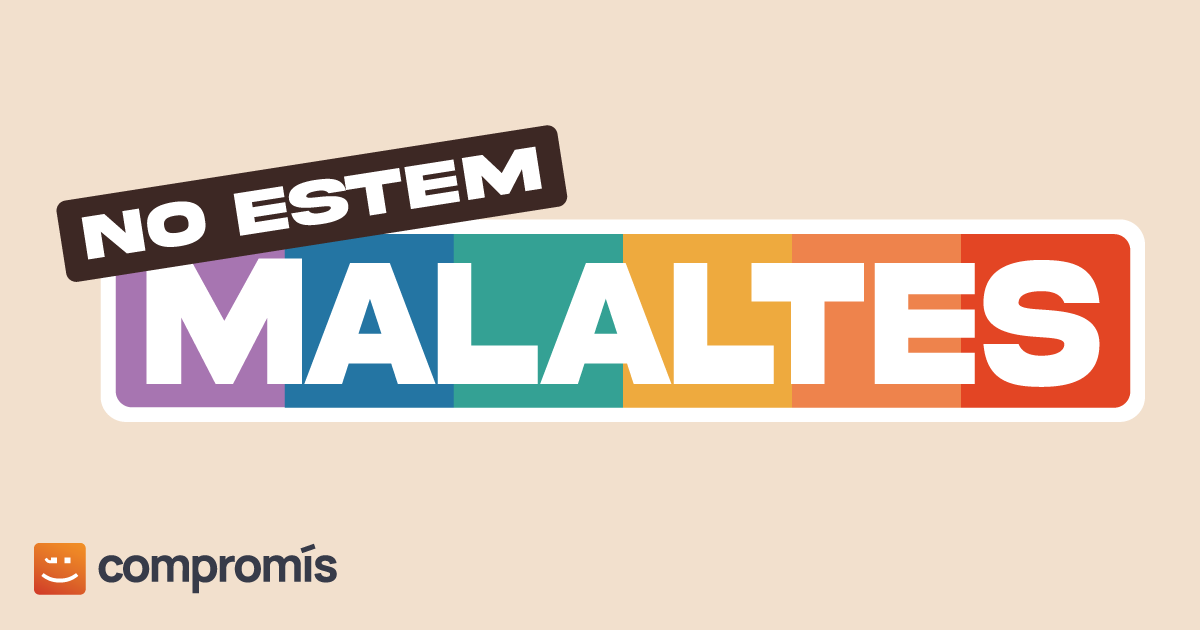
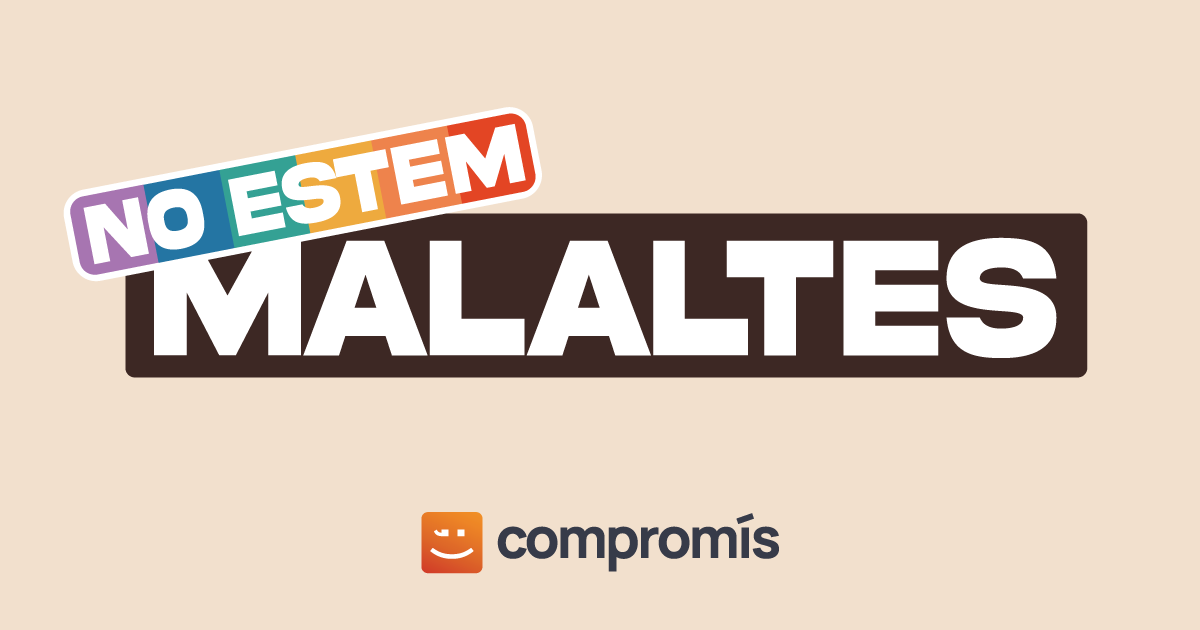
corrections

Changed region(s): [[0.0308, 0.1508, 0.9558, 0.6937], [0.3392, 0.8143, 0.6475, 0.9349], [0.0308, 0.8444, 0.2775, 0.9651]]

diff --git a/components/SiteTitleCas.vue b/components/SiteTitleCas.vue
@@ -1,69 +1,95 @@
 <template>
-<svg id="Amb_fons" xmlns="http://www.w3.org/2000/svg" viewBox="0 0 1036.27 274.07">
-  <rect class="cls-5" x="38.32" y="97.6" width="997.95" height="176.47" rx="23.03" ry="23.03"/>
+<svg id="Sense_fons" xmlns="http://www.w3.org/2000/svg" viewBox="0 0 1584.68 417.28">
+  <rect class="cls-6" x="75.19" y="182.84" width="1509.49" height="234.44" rx="14.13" ry="14.13"/>
   <g>
-    <path class="cls-8" d="M66.3,110.07h146.85v151.24H66.3c-8.18,0-14.82-6.64-14.82-14.82v-121.61c0-8.18,6.64-14.82,14.82-14.82Z"/>
-    <rect class="cls-7" x="213.15" y="110.44" width="161.66" height="151.24"/>
-    <rect class="cls-2" x="374.82" y="110.44" width="161.66" height="151.24"/>
-    <rect class="cls-4" x="536.48" y="110.44" width="161.66" height="151.24"/>
-    <rect class="cls-1" x="698.15" y="110.44" width="161.66" height="151.24"/>
-    <path class="cls-6" d="M859.81,110.44h146.85c8.18,0,14.82,6.64,14.82,14.82v121.61c0,8.18-6.64,14.82-14.82,14.82h-146.85V110.44h0Z"/>
+    <path class="cls-4" d="M128.55,216.16h140.17v43.43h-93.48v21.71h93.48v39.26h-93.48v21.71h93.48v43.56h-140.17v-169.68Z"/>
+    <path class="cls-4" d="M410.31,215.9h46.78v169.68h-52.58l-64.34-103.65v103.65h-46.69v-169.68h64.25l52.58,89.89v-89.89Z"/>
+    <path class="cls-4" d="M484.26,216.16h146.05v53.78h-99.36v20.71h87.69v49.62h-87.69v45.58h-46.69v-169.68Z"/>
+    <path class="cls-4" d="M643.66,216.16h140.17v43.43h-93.48v21.71h93.48v39.26h-93.48v21.71h93.48v43.56h-140.17v-169.68Z"/>
+    <path class="cls-4" d="M924,216.03c24.68-.38,45.62,29.04,45.27,64.14,0,12.75-2.41,24.37-7.22,34.72-4.72,10.23-11.05,18.05-18.89,23.23l26.11,47.6h-49.72l-22.54-41.41h-41.7v41.41h-46.69v-169.68h115.4ZM855.29,265.65v28.91h56.94c2.85,0,5.26-1.39,7.22-4.17,2.05-2.9,3.03-6.31,3.03-10.23,0-8.08-4.54-14.52-10.25-14.52h-56.94Z"/>
+    <path class="cls-4" d="M983.69,215.9h58.46l46.69,84.84,46.78-84.84h58.37v169.68h-46.69v-90.52l-46.78,90.52h-23.35l-46.78-90.52v90.52h-46.69v-169.68Z"/>
+    <path class="cls-4" d="M1261.79,216.16h55.52l64.25,169.68h-52.58l-9.45-29.04h-59.97l-9.45,29.04h-52.58l64.25-169.68ZM1273.11,315.39h32.88l-16.4-50.12-16.49,50.12Z"/>
+    <path class="cls-4" d="M1459.7,281.55c33.42,2.4,80.38,5.68,80.29,48.23,0,48.48-39.21,59.97-81.27,59.97-41.97-.13-76.81-7.32-81.27-59.97h48.92c5.35,13.13,17.73,16.54,32.35,16.54s32.35-3.41,32.35-16.54c0-7.45-14.53-8.58-33.33-9.85-33.42-2.4-80.38-5.68-80.29-48.1,0-48.48,39.21-60.1,81.27-60.1,41.97.38,76.81,7.07,81.27,60.1h-48.92c-5.35-13.38-17.73-16.54-32.35-16.54s-32.35,3.03-32.35,16.54c0,7.45,14.52,8.46,33.33,9.72Z"/>
   </g>
   <g>
-    <path class="cls-5" d="M78.43,131.88h90.21v27.95h-60.16v13.97h60.16v25.27h-60.16v13.97h60.16v28.03h-90.21v-109.2Z"/>
-    <path class="cls-5" d="M259.76,131.72h30.11v109.2h-33.83l-41.41-66.71v66.71h-30.05v-109.2h41.35l33.83,57.85v-57.85Z"/>
-    <path class="cls-5" d="M307.35,131.88h93.99v34.61h-63.94v13.32h56.43v31.93h-56.43v29.33h-30.05v-109.2Z"/>
-    <path class="cls-5" d="M409.94,131.88h90.21v27.95h-60.16v13.97h60.16v25.27h-60.16v13.97h60.16v28.03h-90.21v-109.2Z"/>
-    <path class="cls-5" d="M590.35,131.8c15.89-.24,29.36,18.69,29.13,41.27,0,8.21-1.55,15.68-4.65,22.34-3.04,6.58-7.11,11.62-12.16,14.95l16.8,30.63h-32l-14.51-26.65h-26.84v26.65h-30.05v-109.2h74.27ZM546.13,163.73v18.61h36.65c1.84,0,3.38-.89,4.65-2.68,1.32-1.87,1.95-4.06,1.95-6.58,0-5.2-2.92-9.34-6.59-9.34h-36.65Z"/>
-    <path class="cls-5" d="M628.76,131.72h37.62l30.05,54.6,30.11-54.6h37.56v109.2h-30.05v-58.26l-30.11,58.26h-15.03l-30.11-58.26v58.26h-30.05v-109.2Z"/>
-    <path class="cls-5" d="M807.74,131.88h35.73l41.35,109.2h-33.83l-6.08-18.69h-38.59l-6.08,18.69h-33.83l41.35-109.2ZM815.02,195.74h21.16l-10.55-32.26-10.61,32.26Z"/>
-    <path class="cls-5" d="M935.1,173.97c21.51,1.54,51.73,3.66,51.67,31.04,0,31.2-25.23,38.59-52.3,38.59-27.01-.08-49.43-4.71-52.3-38.59h31.48c3.44,8.45,11.41,10.64,20.82,10.64s20.82-2.19,20.82-10.64c0-4.79-9.35-5.52-21.45-6.34-21.51-1.54-51.73-3.66-51.67-30.96,0-31.2,25.23-38.67,52.3-38.67,27.01.24,49.43,4.55,52.3,38.67h-31.48c-3.44-8.61-11.41-10.64-20.82-10.64s-20.82,1.95-20.82,10.64c0,4.79,9.35,5.44,21.45,6.26Z"/>
-  </g>
-  <rect class="cls-3" x=".85" y="40.13" width="543.62" height="71.5" rx="9.89" ry="9.89" transform="translate(-8.45 43.01) rotate(-8.88)"/>
-  <g>
-    <path class="cls-5" d="M57.28,90.39l14.22-2.22,5.69,36.39-15.98,2.5-23.02-19.18,3.47,22.23-14.19,2.22-5.69-36.39,19.52-3.05,18.99,16.78-3.01-19.28Z"/>
-    <path class="cls-5" d="M128.86,96.49l.41,2.65c2.2,13.75-8.38,19.48-22.05,21.64-13.71,2.11-25.54-.12-27.63-13.88l-.41-2.65c-2.21-13.77,8.39-19.48,22.08-21.65,13.7-2.14,25.46.13,27.61,13.88ZM114.81,99.57c-.85-5.94-5.94-6.26-11.75-5.43-5.81.99-10.57,2.84-9.56,8.76l.14.89c.85,5.97,5.95,6.28,11.78,5.45,5.78-.99,10.54-2.84,9.53-8.78l-.14-.89Z"/>
-    <path class="cls-5" d="M154.4,75.27l42.59-6.66,1.46,9.31-28.41,4.44.73,4.66,28.41-4.44,1.32,8.42-28.4,4.44.73,4.66,28.4-4.44,1.46,9.34-42.59,6.66-5.69-36.39Z"/>
-    <path class="cls-5" d="M228,78.14c10.24-1.07,24.62-2.6,26.01,6.53,1.62,10.4-9.9,14.72-22.69,16.72-12.76,1.97-23.59,2.08-26.71-9l14.87-2.32c2.07,2.56,5.94,2.71,10.38,2.01,4.41-.69,9.71-2.27,9.27-5.08-.25-1.6-4.7-1.15-10.46-.53-10.23,1.07-24.61,2.6-26.01-6.5-1.62-10.4,9.9-14.75,22.68-16.75,12.77-1.91,23.58-2.13,26.71,9.03l-14.87,2.32c-2.07-2.62-5.94-2.7-10.38-2.01-4.41.69-9.73,2.19-9.28,5.08.25,1.6,4.7,1.12,10.45.5Z"/>
-    <path class="cls-5" d="M273.2,93.99l-3.89-24.86-16.87,2.64-1.8-11.53,47.93-7.49,1.8,11.53-16.87,2.64,3.89,24.86-14.19,2.22Z"/>
-    <path class="cls-5" d="M308.68,51.16l16.87-2.64,25.21,33.34-15.98,2.5-3.84-5.78-18.22,2.85-1.9,6.68-15.98,2.5,13.84-39.44ZM315.44,71.91l9.99-1.56-6.66-9.97-3.33,11.53Z"/>
-    <path class="cls-5" d="M346.15,45.25l17.76-2.78,17.03,15.98,11.37-20.42,17.74-2.77,5.69,36.39-14.19,2.22-3.03-19.42-11.18,21.64-7.09,1.11-17.25-17.19,3.03,19.42-14.19,2.22-5.69-36.39Z"/>
-    <path class="cls-5" d="M467.42,43.58l.41,2.65c2.2,13.75-8.38,19.48-22.05,21.64-13.71,2.11-25.54-.12-27.63-13.88l-.41-2.65c-2.21-13.77,8.39-19.48,22.08-21.65,13.7-2.14,25.46.13,27.61,13.88ZM453.37,46.66c-.85-5.94-5.94-6.26-11.75-5.43-5.81.99-10.57,2.84-9.56,8.76l.14.89c.85,5.97,5.95,6.28,11.78,5.45,5.78-.99,10.54-2.84,9.53-8.78l-.14-.89Z"/>
-    <path class="cls-5" d="M494.99,36.41c10.23-1.07,24.62-2.6,26.01,6.53,1.63,10.4-9.9,14.72-22.69,16.72-12.76,1.97-23.59,2.08-26.71-9l14.87-2.32c2.07,2.56,5.94,2.71,10.38,2.01,4.41-.69,9.71-2.27,9.27-5.08-.25-1.6-4.7-1.15-10.46-.53-10.23,1.07-24.62,2.6-26.01-6.5-1.63-10.4,9.9-14.75,22.68-16.75,12.77-1.91,23.58-2.13,26.71,9.03l-14.87,2.32c-2.07-2.62-5.94-2.7-10.38-2.01-4.41.69-9.73,2.19-9.28,5.08.25,1.6,4.7,1.12,10.45.5Z"/>
+    <rect class="cls-4" x="-1.74" y="73.21" width="847.59" height="132.39" rx="38.14" ry="38.14" transform="translate(-18.86 83.25) rotate(-11.02)"/>
+    <g>
+      <path class="cls-15" d="M39.03,148.56h112.87v113.47H39.03c-13.55,0-24.55-11-24.55-24.55v-64.36c0-13.55,11-24.55,24.55-24.55Z" transform="translate(-37.71 19.69) rotate(-11.02)"/>
+      <rect class="cls-9" x="149.42" y="122.56" width="137.42" height="113.47" transform="translate(-30.25 45) rotate(-11.02)"/>
+      <rect class="cls-5" x="284.31" y="96.29" width="137.42" height="113.47" transform="translate(-22.74 70.3) rotate(-11.02)"/>
+      <rect class="cls-7" x="419.19" y="70.02" width="137.42" height="113.47" transform="translate(-15.23 95.6) rotate(-11.02)"/>
+      <rect class="cls-2" x="554.08" y="43.75" width="137.42" height="113.47" transform="translate(-7.72 120.9) rotate(-11.02)"/>
+      <path class="cls-8" d="M688.97,17.48h112.87c13.55,0,24.55,11,24.55,24.55v64.36c0,13.55-11,24.55-24.55,24.55h-112.87V17.48h0Z" transform="translate(-.22 146.2) rotate(-11.02)"/>
+    </g>
+    <g>
+      <path class="cls-4" d="M83.17,164.04l22.17-4.32,15.66,80.42-24.91,4.85-40.05-43.19,9.57,49.12-22.12,4.31-15.66-80.42,30.44-5.93,33.21,37.75-8.3-42.6Z"/>
+      <path class="cls-4" d="M197.93,180.38l1.14,5.86c6,30.38-9.76,42.58-31.07,46.79-21.38,4.1-40.57-1.29-46.4-31.7l-1.14-5.86c-6.02-30.44,9.76-42.58,31.12-46.8,21.36-4.16,40.44,1.32,46.36,31.71ZM176.18,186.6c-2.43-13.13-10.58-14.03-19.65-12.45-9.04,1.95-16.26,5.84-13.58,18.92l.38,1.97c2.44,13.19,10.59,14.09,19.7,12.5,9-1.94,16.22-5.83,13.53-18.97l-.38-1.97Z"/>
+      <path class="cls-4" d="M234.62,134.67l66.41-12.93,4.01,20.58-44.29,8.62,2,10.29,44.29-8.62,3.62,18.61-44.29,8.62,2,10.29,44.29-8.62,4.02,20.64-66.41,12.93-15.66-80.42Z"/>
+      <path class="cls-4" d="M352,143.98c16.06-1.95,38.61-4.72,42.49,15.45,4.47,22.98-13.04,32.04-32.97,35.92-19.9,3.81-37.07,3.62-44.04-20.92l23.18-4.51c3.75,5.73,9.93,6.2,16.85,4.85,6.88-1.34,15.01-4.6,13.8-10.82-.69-3.53-7.67-2.73-16.7-1.59-16.05,1.95-38.61,4.72-42.48-15.39-4.47-22.98,13.03-32.1,32.96-35.98,19.92-3.69,37.05-3.74,44.05,20.98l-23.18,4.51c-3.77-5.85-9.93-6.2-16.85-4.85-6.88,1.34-15.05,4.42-13.8,10.82.69,3.53,7.66,2.67,16.69,1.53Z"/>
+      <path class="cls-4" d="M426.66,180.74l-10.7-54.93-26.3,5.12-4.96-25.49,74.73-14.55,4.96,25.49-26.3,5.12,10.7,54.93-22.12,4.31Z"/>
+      <path class="cls-4" d="M475.18,87.82l26.3-5.12,46.1,74.49-24.91,4.85-7.16-12.89-28.42,5.53-1.8,14.63-24.91,4.85,14.78-86.35ZM489.71,133.8l15.58-3.03-12.39-22.24-3.19,25.27Z"/>
+      <path class="cls-4" d="M533.61,76.32l27.7-5.39,29.95,35.9,14.34-44.52,27.65-5.39,15.66,80.42-22.12,4.31-8.35-42.9-13.81,47.22-11.06,2.15-30.52-38.58,8.35,42.9-22.12,4.31-15.66-80.42Z"/>
+      <path class="cls-4" d="M725.85,77.57l1.14,5.86c6,30.38-9.76,42.58-31.07,46.79-21.38,4.1-40.57-1.29-46.4-31.7l-1.14-5.87c-6.02-30.44,9.76-42.58,31.11-46.8,21.36-4.16,40.44,1.32,46.36,31.71ZM704.1,83.79c-2.43-13.13-10.58-14.02-19.65-12.45-9.04,1.95-16.26,5.84-13.58,18.92l.38,1.97c2.44,13.19,10.59,14.09,19.7,12.5,9-1.94,16.22-5.83,13.53-18.97l-.38-1.97Z"/>
+      <path class="cls-4" d="M768.32,62.9c16.05-1.95,38.61-4.72,42.49,15.45,4.47,22.98-13.04,32.04-32.97,35.92-19.9,3.81-37.07,3.62-44.04-20.92l23.18-4.51c3.75,5.73,9.93,6.2,16.85,4.85,6.88-1.34,15.01-4.6,13.8-10.82-.69-3.53-7.67-2.73-16.7-1.59-16.05,1.95-38.61,4.72-42.48-15.39-4.47-22.98,13.03-32.1,32.96-35.98,19.92-3.69,37.05-3.74,44.05,20.98l-23.18,4.51c-3.77-5.85-9.93-6.2-16.85-4.85-6.88,1.34-15.05,4.42-13.8,10.82.69,3.53,7.66,2.67,16.69,1.53Z"/>
+    </g>
   </g>
 </svg>
 </template>
 
 <style scoped>
-.cls-1 {
+
+
+.cls-2 {
   fill: #ef834c;
 }
 
-.cls-2 {
-  fill: #36a295;
-}
 
-.cls-3 {
-  fill: #3d2824;
-}
 
-.cls-4 {
-  fill: #efaa3e;
-}
-
-.cls-5 {
+.cls-3, .cls-4 {
   fill: #fff;
 }
 
+.cls-5 {
+  fill: #36a295;
+}
+
 .cls-6 {
-  fill: #e34424;
+  fill: #3d2824;
 }
 
 .cls-7 {
-  fill: #2775a3;
+  fill: #efaa3e;
 }
 
 .cls-8 {
+  fill: #e34424;
+}
+
+.cls-9 {
+  fill: #2775a3;
+}
+
+.cls-10 {
+  letter-spacing: -.01em;
+}
+
+.cls-11 {
+  letter-spacing: .07em;
+}
+
+.cls-12 {
+  letter-spacing: .07em;
+}
+
+.cls-13 {
+  letter-spacing: .12em;
+}
+
+.cls-14 {
+  letter-spacing: .05em;
+}
+
+.cls-15 {
   fill: #a776b1;
 }
 </style>

diff --git a/components/SiteTitle.vue b/components/SiteTitle.vue
@@ -1,67 +1,95 @@
 <template>
-  <svg id="Amb_fons" xmlns="http://www.w3.org/2000/svg" viewBox="0 0 1475.15 401.71">
-    <rect class="cls-5" x="59.77" y="127.5" width="1415.39" height="274.21" rx="34.19" ry="34.19"/>
+<svg id="Sense_fons" xmlns="http://www.w3.org/2000/svg" viewBox="0 0 1499.49 386.57">
+  <rect class="cls-5" x="50.2" y="152.12" width="1449.28" height="234.44" rx="13.84" ry="13.84"/>
+  <g>
+    <path class="cls-3" d="M129.23,185.19h58.46l46.69,84.84,46.78-84.84h58.37v169.68h-46.69v-90.52l-46.78,90.52h-23.35l-46.78-90.52v90.52h-46.69v-169.68Z"/>
+    <path class="cls-3" d="M405.01,191.39h53.57l61.99,163.73h-50.73l-9.11-28.02h-57.87l-9.11,28.02h-50.73l61.99-163.73ZM415.93,287.14h31.73l-15.82-48.37-15.91,48.37Z"/>
+    <path class="cls-3" d="M569.08,191.14v111.84h90.2v51.9h-135.25v-163.73h45.06Z"/>
+    <path class="cls-3" d="M724.71,191.39h53.57l61.99,163.73h-50.73l-9.11-28.02h-57.87l-9.11,28.02h-50.73l61.99-163.73ZM735.63,287.14h31.73l-15.82-48.37-15.91,48.37Z"/>
+    <path class="cls-3" d="M888.77,191.14v111.84h90.2v51.9h-135.25v-163.73h45.06Z"/>
+    <path class="cls-3" d="M1002.62,355.12v-111.84h-53.57v-51.9h152.19v51.9h-53.57v111.84h-45.06Z"/>
+    <path class="cls-3" d="M1116.3,191.39h135.25v41.91h-90.2v20.95h90.2v37.89h-90.2v20.95h90.2v42.03h-135.25v-163.73Z"/>
+    <path class="cls-3" d="M1343.04,254.49c32.24,2.32,77.56,5.48,77.47,46.54,0,46.78-37.83,57.87-78.42,57.87-40.5-.12-74.12-7.07-78.42-57.87h47.2c5.16,12.67,17.11,15.96,31.21,15.96s31.21-3.29,31.21-15.96c0-7.19-14.02-8.28-32.16-9.5-32.24-2.31-77.56-5.48-77.47-46.42,0-46.78,37.83-57.99,78.42-57.99,40.5.37,74.12,6.82,78.42,57.99h-47.21c-5.16-12.91-17.11-15.96-31.21-15.96s-31.21,2.92-31.21,15.96c0,7.19,14.02,8.16,32.16,9.38Z"/>
+  </g>
+  <g>
+    <rect class="cls-3" x=".45" y="58.19" width="683.35" height="132.39" rx="34.19" ry="34.19" transform="translate(-17.47 67.69) rotate(-11.02)"/>
     <g>
-      <path class="cls-8" d="M102.21,146.88h207.17v235.01H102.21c-12.14,0-21.99-9.85-21.99-21.99v-191.03c0-12.14,9.85-21.99,21.99-21.99Z"/>
-      <rect class="cls-7" x="309.38" y="147.45" width="229.16" height="235.01"/>
-      <rect class="cls-2" x="538.55" y="147.45" width="229.16" height="235.01"/>
-      <rect class="cls-4" x="767.71" y="147.45" width="229.16" height="235.01"/>
-      <rect class="cls-1" x="996.87" y="147.45" width="229.16" height="235.01"/>
-      <path class="cls-6" d="M1226.04,147.45h207.17c12.14,0,21.99,9.85,21.99,21.99v191.03c0,12.14-9.85,21.99-21.99,21.99h-207.17v-235.01h0Z"/>
+      <path class="cls-14" d="M37.4,120.4h88.65v113.47H37.4c-12.14,0-21.99-9.85-21.99-21.99v-69.48c0-12.14,9.85-21.99,21.99-21.99Z" transform="translate(-32.56 16.79) rotate(-11.02)"/>
+      <rect class="cls-8" x="124.06" y="99.52" width="110.64" height="113.47" transform="translate(-26.56 37.17) rotate(-11.02)"/>
+      <rect class="cls-4" x="232.66" y="78.37" width="110.64" height="113.47" transform="translate(-20.52 57.54) rotate(-11.02)"/>
+      <rect class="cls-6" x="341.26" y="57.22" width="110.64" height="113.47" transform="translate(-14.47 77.91) rotate(-11.02)"/>
+      <rect class="cls-1" x="449.86" y="36.08" width="110.64" height="113.47" transform="translate(-8.43 98.28) rotate(-11.02)"/>
+      <path class="cls-7" d="M558.46,14.93h88.65c12.14,0,21.99,9.85,21.99,21.99v69.48c0,12.14-9.85,21.99-21.99,21.99h-88.65V14.93h0Z" transform="translate(-2.38 118.65) rotate(-11.02)"/>
     </g>
     <g>
-      <path class="cls-5" d="M122.09,180.52h58.46l46.69,84.84,46.78-84.84h58.37v169.68h-46.69v-90.52l-46.78,90.52h-23.35l-46.78-90.52v90.52h-46.69v-169.68Z"/>
-      <path class="cls-5" d="M397.88,186.72h53.57l61.99,163.73h-50.73l-9.11-28.02h-57.87l-9.11,28.02h-50.73l61.99-163.73ZM408.8,282.47h31.73l-15.82-48.37-15.91,48.37Z"/>
-      <path class="cls-5" d="M561.94,186.47v111.84h90.2v51.9h-135.25v-163.73h45.05Z"/>
-      <path class="cls-5" d="M717.58,186.72h53.57l61.99,163.73h-50.73l-9.11-28.02h-57.87l-9.11,28.02h-50.73l61.99-163.73ZM728.5,282.47h31.73l-15.82-48.37-15.91,48.37Z"/>
-      <path class="cls-5" d="M881.64,186.47v111.84h90.2v51.9h-135.25v-163.73h45.06Z"/>
-      <path class="cls-5" d="M995.49,350.45v-111.84h-53.57v-51.9h152.19v51.9h-53.57v111.84h-45.06Z"/>
-      <path class="cls-5" d="M1109.16,186.72h135.25v41.91h-90.2v20.95h90.2v37.89h-90.2v20.95h90.2v42.03h-135.25v-163.73Z"/>
-      <path class="cls-5" d="M1335.91,249.82c32.24,2.32,77.56,5.48,77.47,46.54,0,46.78-37.83,57.87-78.42,57.87-40.5-.12-74.12-7.07-78.42-57.87h47.2c5.16,12.67,17.11,15.96,31.21,15.96s31.21-3.29,31.21-15.96c0-7.19-14.01-8.28-32.16-9.5-32.24-2.31-77.56-5.48-77.47-46.42,0-46.78,37.83-57.99,78.42-57.99,40.5.37,74.12,6.82,78.42,57.99h-47.21c-5.16-12.91-17.11-15.96-31.21-15.96s-31.21,2.92-31.21,15.96c0,7.19,14.02,8.16,32.16,9.38Z"/>
+      <path class="cls-3" d="M83.85,133.32l22.17-4.32,15.66,80.42-24.91,4.85-40.05-43.19,9.57,49.12-22.12,4.31-15.66-80.42,30.44-5.93,33.21,37.75-8.3-42.6Z"/>
+      <path class="cls-3" d="M198.61,149.66l1.14,5.86c6,30.38-9.76,42.58-31.07,46.79-21.38,4.1-40.57-1.29-46.4-31.7l-1.14-5.86c-6.02-30.44,9.76-42.58,31.12-46.8,21.36-4.16,40.44,1.32,46.36,31.71ZM176.86,155.89c-2.43-13.13-10.58-14.03-19.65-12.45-9.04,1.95-16.26,5.84-13.58,18.92l.38,1.97c2.44,13.19,10.59,14.09,19.7,12.5,9-1.94,16.22-5.83,13.53-18.97l-.38-1.97Z"/>
+      <path class="cls-3" d="M235.3,103.95l66.41-12.93,4.01,20.58-44.29,8.62,2,10.29,44.29-8.62,3.62,18.61-44.29,8.62,2,10.29,44.29-8.62,4.02,20.64-66.41,12.93-15.66-80.42Z"/>
+      <path class="cls-3" d="M352.69,113.26c16.06-1.95,38.61-4.72,42.49,15.45,4.47,22.98-13.04,32.04-32.97,35.92-19.9,3.81-37.07,3.62-44.04-20.92l23.18-4.51c3.75,5.73,9.93,6.2,16.85,4.85,6.88-1.34,15.01-4.6,13.8-10.82-.69-3.53-7.67-2.73-16.7-1.59-16.05,1.95-38.61,4.72-42.48-15.39-4.47-22.98,13.03-32.1,32.96-35.98,19.92-3.69,37.05-3.74,44.05,20.98l-23.18,4.51c-3.77-5.85-9.93-6.2-16.85-4.85-6.88,1.34-15.05,4.42-13.8,10.82.69,3.53,7.66,2.67,16.69,1.53Z"/>
+      <path class="cls-3" d="M427.34,150.02l-10.7-54.93-26.3,5.12-4.96-25.49,74.73-14.55,4.96,25.49-26.3,5.12,10.7,54.93-22.12,4.31Z"/>
+      <path class="cls-3" d="M467.51,58.73l66.41-12.93,4.01,20.58-44.29,8.62,2,10.29,44.29-8.62,3.62,18.61-44.29,8.62,2,10.29,44.29-8.62,4.02,20.64-66.41,12.93-15.66-80.42Z"/>
+      <path class="cls-3" d="M545.65,43.39l27.7-5.39,29.95,35.9,14.34-44.52,27.65-5.39,15.66,80.42-22.12,4.31-8.35-42.9-13.81,47.22-11.06,2.15-30.52-38.58,8.35,42.9-22.12,4.31-15.66-80.42Z"/>
     </g>
-    <rect class="cls-3" x="2.49" y="50.39" width="686.86" height="111.11" rx="13.84" ry="13.84" transform="translate(-12.21 54.68) rotate(-8.88)"/>
-    <g>
-      <path class="cls-5" d="M89.22,116.3l22.09-3.45,8.84,56.55-24.83,3.88-35.78-29.8,5.4,34.54-22.05,3.45-8.84-56.55,30.34-4.74,29.51,26.08-4.68-29.96Z"/>
-      <path class="cls-5" d="M200.45,125.77l.64,4.12c3.42,21.36-13.03,30.27-34.27,33.63-21.3,3.28-39.68-.18-42.94-21.57l-.64-4.12c-3.43-21.4,13.03-30.27,34.31-33.64,21.29-3.33,39.56.2,42.9,21.57ZM178.61,130.57c-1.31-9.23-9.23-9.72-18.26-8.44-9.03,1.54-16.42,4.42-14.85,13.62l.22,1.39c1.32,9.28,9.24,9.76,18.31,8.48,8.98-1.53,16.38-4.41,14.81-13.65l-.22-1.39Z"/>
-      <path class="cls-5" d="M240.14,92.8l66.19-10.34,2.26,14.47-44.14,6.9,1.13,7.24,44.14-6.9,2.04,13.09-44.14,6.9,1.13,7.24,44.14-6.9,2.27,14.52-66.19,10.34-8.84-56.55Z"/>
-      <path class="cls-5" d="M354.5,97.26c15.9-1.67,38.25-4.04,40.42,10.15,2.53,16.16-15.39,22.88-35.25,25.98-19.83,3.05-36.65,3.23-41.5-13.99l23.1-3.61c3.21,3.98,9.24,4.2,16.14,3.13,6.86-1.07,15.1-3.52,14.41-7.9-.39-2.48-7.31-1.79-16.25-.82-15.9,1.67-38.25,4.04-40.42-10.11-2.53-16.16,15.38-22.92,35.24-26.03,19.84-2.97,36.64-3.31,41.5,14.03l-23.1,3.61c-3.22-4.06-9.23-4.2-16.13-3.12-6.86,1.07-15.12,3.4-14.41,7.9.39,2.48,7.3,1.75,16.24.78Z"/>
-      <path class="cls-5" d="M424.74,121.89l-6.04-38.63-26.21,4.1-2.8-17.92,74.48-11.64,2.8,17.92-26.21,4.1,6.04,38.63-22.05,3.45Z"/>
-      <path class="cls-5" d="M471.53,56.64l66.19-10.34,2.26,14.47-44.14,6.9,1.13,7.24,44.14-6.9,2.04,13.09-44.14,6.9,1.13,7.24,44.14-6.9,2.27,14.52-66.19,10.34-8.84-56.55Z"/>
-      <path class="cls-5" d="M549.41,44.39l27.6-4.31,26.47,24.83,17.67-31.73,27.56-4.31,8.84,56.55-22.05,3.45-4.71-30.17-17.38,33.62-11.02,1.72-26.81-26.72,4.71,30.17-22.05,3.45-8.84-56.55Z"/>
-    </g>
-  </svg>
+  </g>
+</svg>
 </template>
 
-<style scoped>
+  <style scoped>
     .cls-1 {
       fill: #ef834c;
     }
 
     .cls-2 {
-      fill: #36a295;
+      font-family: AkiraExpanded-SuperBold, 'Akira Expanded';
+      font-size: 87.23px;
+      font-weight: 700;
     }
 
-    .cls-3 {
-      fill: #3d2824;
-    }
-
-    .cls-4 {
-      fill: #efaa3e;
-    }
-
-    .cls-5 {
+    .cls-2, .cls-3 {
       fill: #fff;
     }
 
+    .cls-4 {
+      fill: #36a295;
+    }
+
+    .cls-5 {
+      fill: #3d2824;
+    }
+
     .cls-6 {
-      fill: #e34424;
+      fill: #efaa3e;
     }
 
     .cls-7 {
-      fill: #2775a3;
+      fill: #e34424;
     }
 
     .cls-8 {
+      fill: #2775a3;
+    }
+
+    .cls-9 {
+      letter-spacing: -.01em;
+    }
+
+    .cls-10 {
+      letter-spacing: .07em;
+    }
+
+    .cls-11 {
+      letter-spacing: .07em;
+    }
+
+    .cls-12 {
+      letter-spacing: .12em;
+    }
+
+    .cls-13 {
+      letter-spacing: .05em;
+    }
+
+    .cls-14 {
       fill: #a776b1;
     }
   </style>

diff --git a/pages/cas.vue b/pages/cas.vue
@@ -18,20 +18,20 @@ const accordion = [
   {
     number: 'material-symbols:person-pin',
     color: 'blue',
-    title: 'Què son les teràpies de conversió?',
+    title: '¿Qué son las terapias de conversión?',
     text: [
-      'La llei valenciana LGTBI prohibeix la pràctica de mètodes, programes i teràpies d’aversió, conversió o contracondicionament destinades a modificar l’orientació sexual, la identitat de gènere o l’expressió de gènere de les persones.',
-      'En alguns àmbits acadèmics es defineixen estes pràctiques com qualsevol tractament, pràctica o esforç sostingut que tinga com a objectiu reprimir, descoratjar o canviar l\'orientació sexual, la identitat de gènere, la modalitat de gènere, l\'expressió de gènere o qualsevol comportament associat amb un gènere diferent de l\'assignat en nàixer o que tinga com a objectiu alterar un tret intersexual sense una justificació adequada.'
+      'La ley valenciana LGTBI prohíbe la práctica de métodos, programas y terapias de aversión, conversión o contracondicionamiento destinadas a modificar la orientación sexual, la identidad de género o la expresión de género de las personas.',
+      'En algunos ámbitos académicos se definen estas prácticas como cualquier tratamiento, práctica o esfuerzo sostenido que tenga como objetivo reprimir, desalentar o cambiar la orientación sexual, la identidad de género, la modalidad de género, la expresión de género o cualquiera comportamiento asociado con un género diferente al asignado al nacer o que tenga como objetivo alterar un rasgo intersexual sin una justificación adecuada.'
     ]
   },
   {
     number: 'mdi:bar-chart',
     color: 'purple',
-    title: 'Què hem proposat des de Compromís?',
+    title: '¿Qué hemos propuesto desde Compromís?',
     text: [
-      'Hem proposat la creació d’una comissió d’investigació a les Corts per tal d’investigar la trama de teràpies de conversió present en alguns centres educatius i religiosos valencians.',
-      'Hem prohibit les teràpies de conversió a les lleis valencianes trans i LGTBI',
-      'Defensem, a més, la tipificació de la pràctica d’estes teràpies al codi Penal perquè la prohibició puga ser realment efectiva. Durant la tramitació de la Llei Estatal LGTBI vàrem donar suport a la seua inclusió a través d’una esmena que, malauradament, va ser rebutjada per la majoria del Congrés.'
+      'Hemos propuesto la creación de una comisión de investigación en Les Corts para investigar la trama de terapias de conversión presente en algunos centros educativos y religiosos valencianos.',
+      'Hemos prohibido las terapias de conversión en las leyes valencianas trans y LGTBI',
+      'Defendemos, además, la tipificación de la práctica de estas terapias en el código Penal para que la prohibición pueda ser realmente efectiva. Durante la tramitación de la Ley Estatal LGTBI apoyamos su inclusión a través de una enmienda que, desgraciadamente, fue rechazada por la mayoría del Congreso.'
     ]
   }
 ]
@@ -52,18 +52,23 @@ const accordion = [
 
         <div v-motion-slide-visible-bottom :delay="200" class="quote">
           <blockquote>
-            “Totes les «teràpies de conversió» comparteixen la premissa que l'orientació sexual i la identitat de gènere poden ser extirpades -expulsades, curades o rehabilitades-, com si foren alguna cosa aliena a la persona, la qual cosa <Annotated type="highlight" inmediate>constitueix una visió summament inhumana de l'existència humana</Annotated>.”
+            "Todas las "terapias de conversión" comparten la premisa de que la orientación sexual y la identidad de género pueden ser extirpadas -expulsadas, curadas o rehabilitadas-, como si fueran algo ajeno a la persona, lo que <Annotated type="highlight" inmediate>constituye una visión sumamente inhumana de la existencia humana</Annotated>.”
           </blockquote>
           <p>&mdash; <a href="https://documents.un.org/doc/undoc/gen/g20/108/71/pdf/g2010871.pdf" target="_blank">Expert independent de <img src="../assets/images/logos/un.svg" alt="Nacions Unides" class="un-logo" /> <strong>Nacions Unides</strong> sobre orientació sexual i identitat de gènere.</a></p>
         </div>
       </section>
-    </div>
-    <div class="connection" v-motion-slide-visible-bottom :delay="300">
-      Frase de connexió...
+
+      <div class="connection" v-motion-slide-visible-bottom :delay="300">
+        Las "terapias de conversión" contra las personas LGTBI son un ataque a derechos humanos. No descansaremos hasta destapar toda esta trama y garantizar que todas las escuelas sean espacios seguros para todas y todos.
+      </div>
+
+      <div class="intro-cta">
+        <a href="#contacta">¿Tienes información sobre la trama? Contacta con nosotros</a>
+      </div>
     </div>
     <BentoCards />
     <Accordion id="accordtion" :content="accordion" />
-    <SiteForm id="firma" />
+    <SiteForm id="contacta" />
     <Share>
       <template #title>Haz difusión</template>
       <p>Comparte esta página con tus amistades.</p>

diff --git a/pages/index.vue b/pages/index.vue
@@ -57,13 +57,18 @@ const accordion = [
           <p>&mdash; <a href="https://documents.un.org/doc/undoc/gen/g20/108/71/pdf/g2010871.pdf" target="_blank">Expert independent de <img src="../assets/images/logos/un.svg" alt="Nacions Unides" class="un-logo" /> <strong>Nacions Unides</strong> sobre orientació sexual i identitat de gènere.</a></p>
         </div>
       </section>
-    </div>
-    <div class="connection" v-motion-slide-visible-bottom :delay="300">
-      Frase de connexió...
+
+      <div class="connection" v-motion-slide-visible-bottom :delay="300">
+        Les "teràpies de conversió" contra les persones LGTBI són un atac als drets humans. No descansarem fins destapar tota esta trama i garantir que totes les escoles siguen espais segurs per a totes i tots.
+      </div>
+
+      <div class="intro-cta">
+        <a href="#contacta">Tens informació sobre la trama? Contacta amb nosaltres</a>
+      </div>
     </div>
     <BentoCards />
     <Accordion id="accordtion" :content="accordion" />
-    <SiteForm id="firma" />
+    <SiteForm id="contacta" />
     <Share>
       <template #title>Fes-ne difusió!</template>
       <p>Comparteix aquesta pàgina amb les teues amistats.</p>

diff --git a/components/BentoCards.vue b/components/BentoCards.vue
@@ -26,8 +26,8 @@
         ridiculizándolo o avergonzándolo ante los demás. Se conseguiría todo lo contrario:
         reforzar la conducta. Lo primero debería ser ganarse su confianza y establecer una
         vinculación sana con él. Después, dada la inseguridad y los miedos que padece en el
-        mundo viril (que le atrae a la vez que le asusta), con delicadeza y de diversas maneras,
-        debe conducirlo como un imán hacia las realidades masculinas. Si esta carencia de identidad
+        mundo viril (que le atrae a la vez que le asusta), con delicadeza y <Annotated>de diversas maneras,
+        debe conducirlo como un imán hacia las realidades masculinas</Annotated>. Si esta carencia de identidad
         masculina (que la mayoría de veces tiene como origen una carencia de apego paterno)
         se prolonga y no se toma en serio, puede derivar en la adolescencia en el deseo de cambio
         de sexo o la proyección hacia el mismo sexo.

diff --git a/assets/scss/main.scss b/assets/scss/main.scss
@@ -109,9 +109,19 @@ main .container {
 
 .connection {
   text-align: center;
-  font-size: var(--text-xl);
-  margin: 2rem 0;
+  font-size: var(--text-lg);
+  margin: 2rem auto;
   font-weight: bold;
+  line-height: 1.1;
+  max-width: 1000px;
+}
+
+.intro-cta {
+  text-align: center;
+
+  a {
+    color: var(--red);
+  }
 }
 
 .headline-font {
